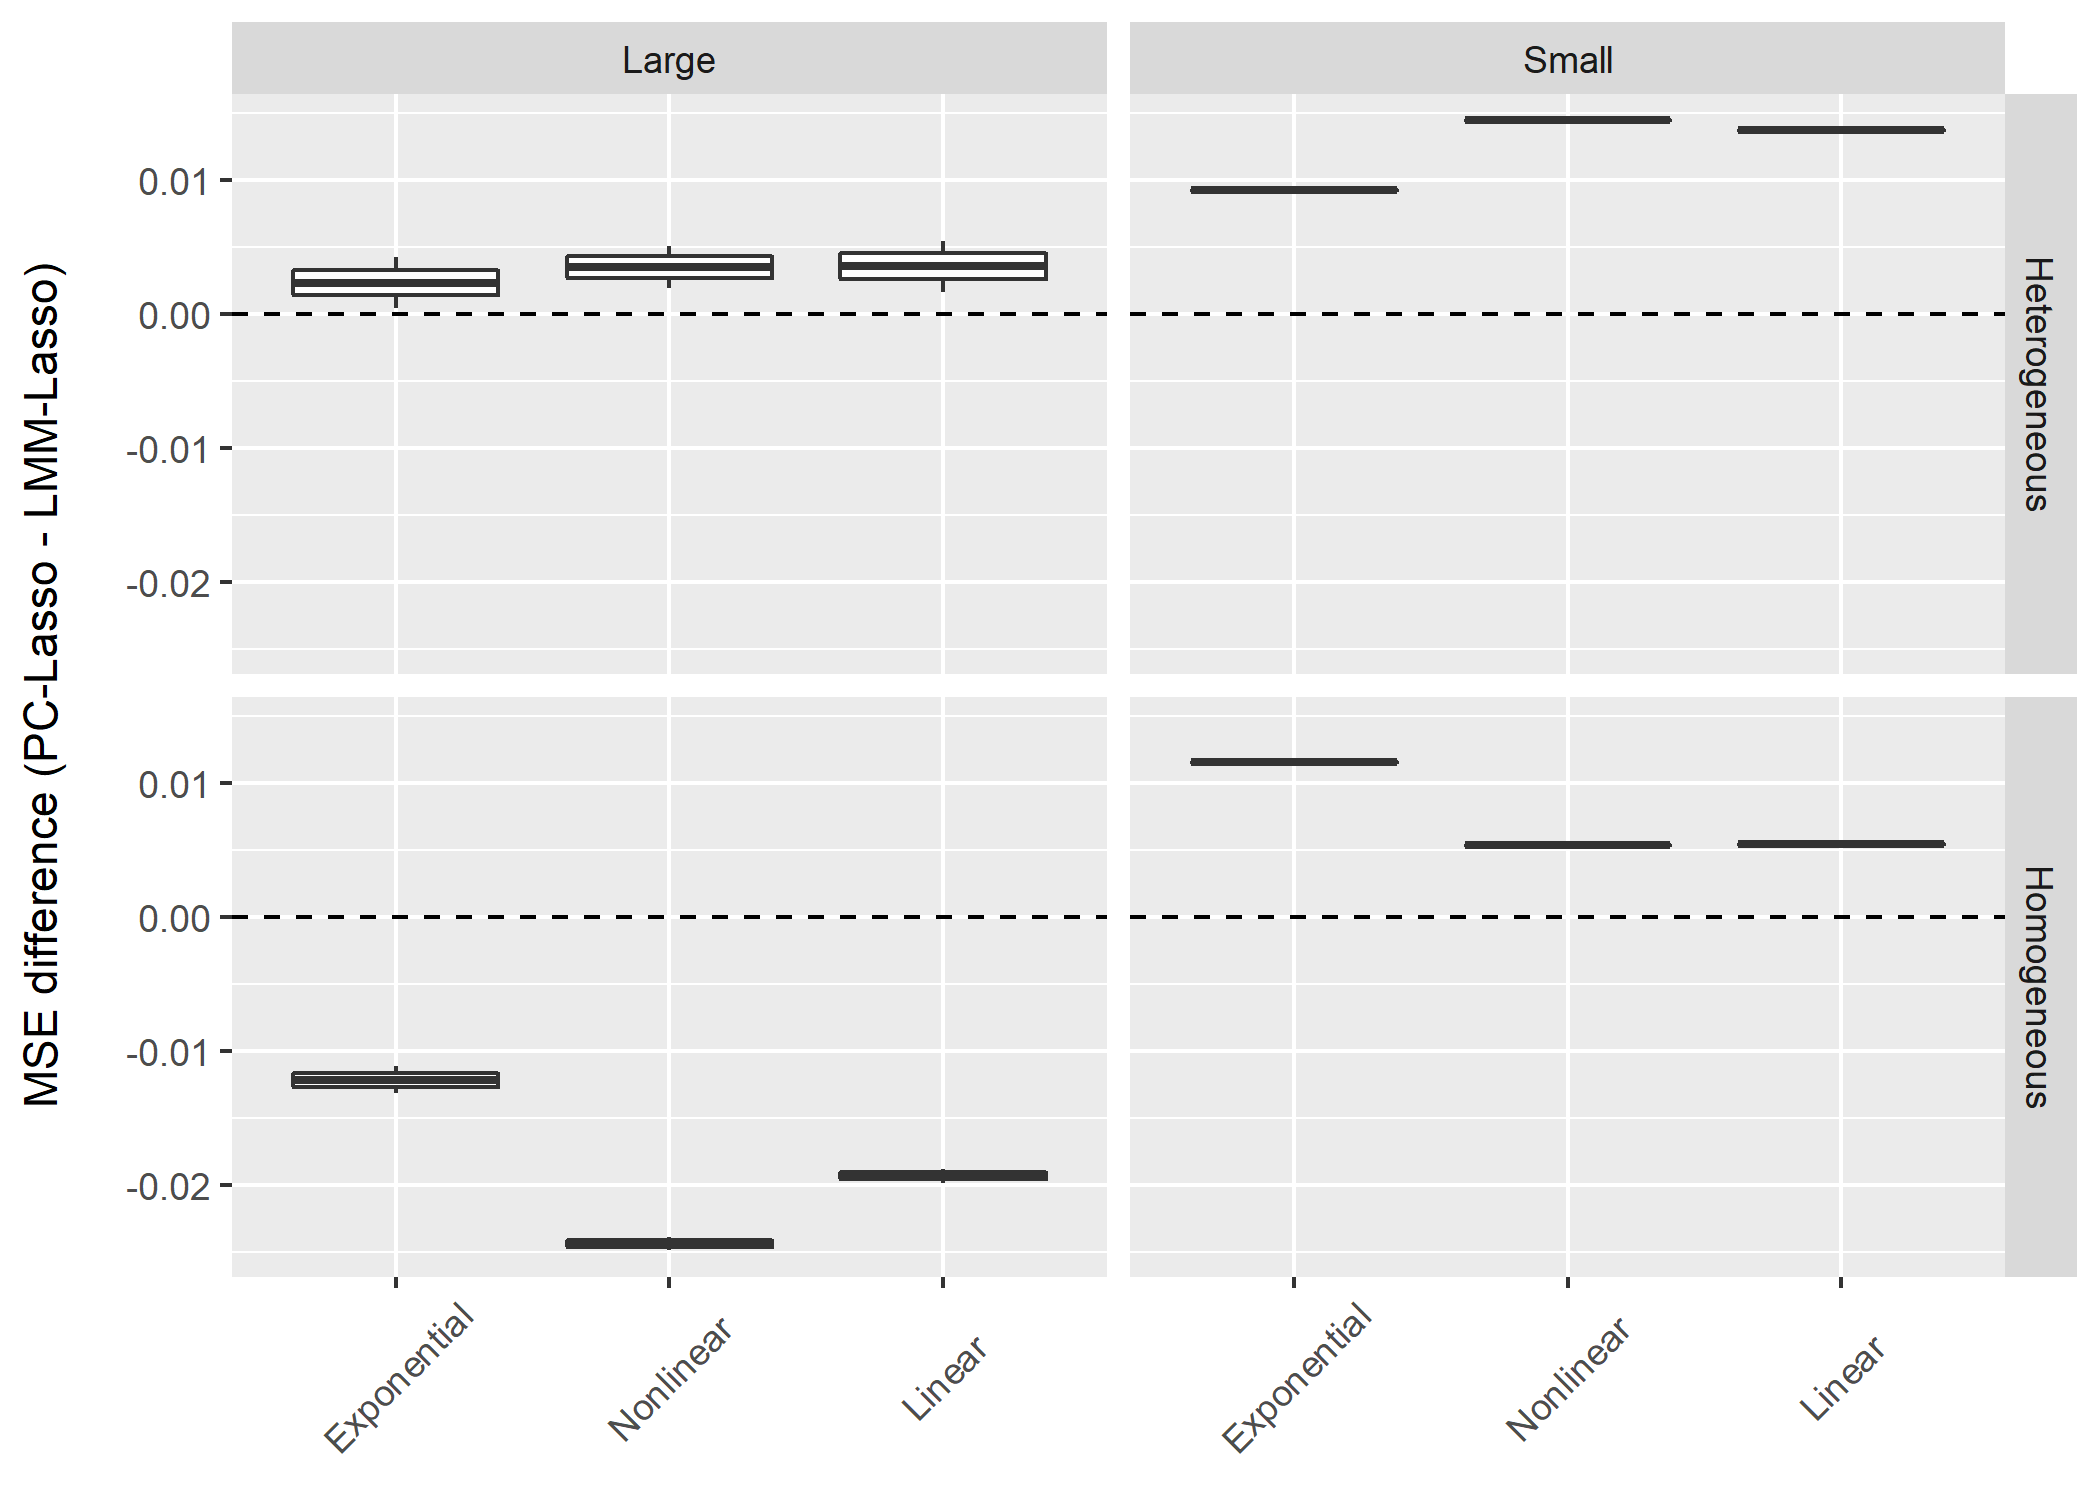
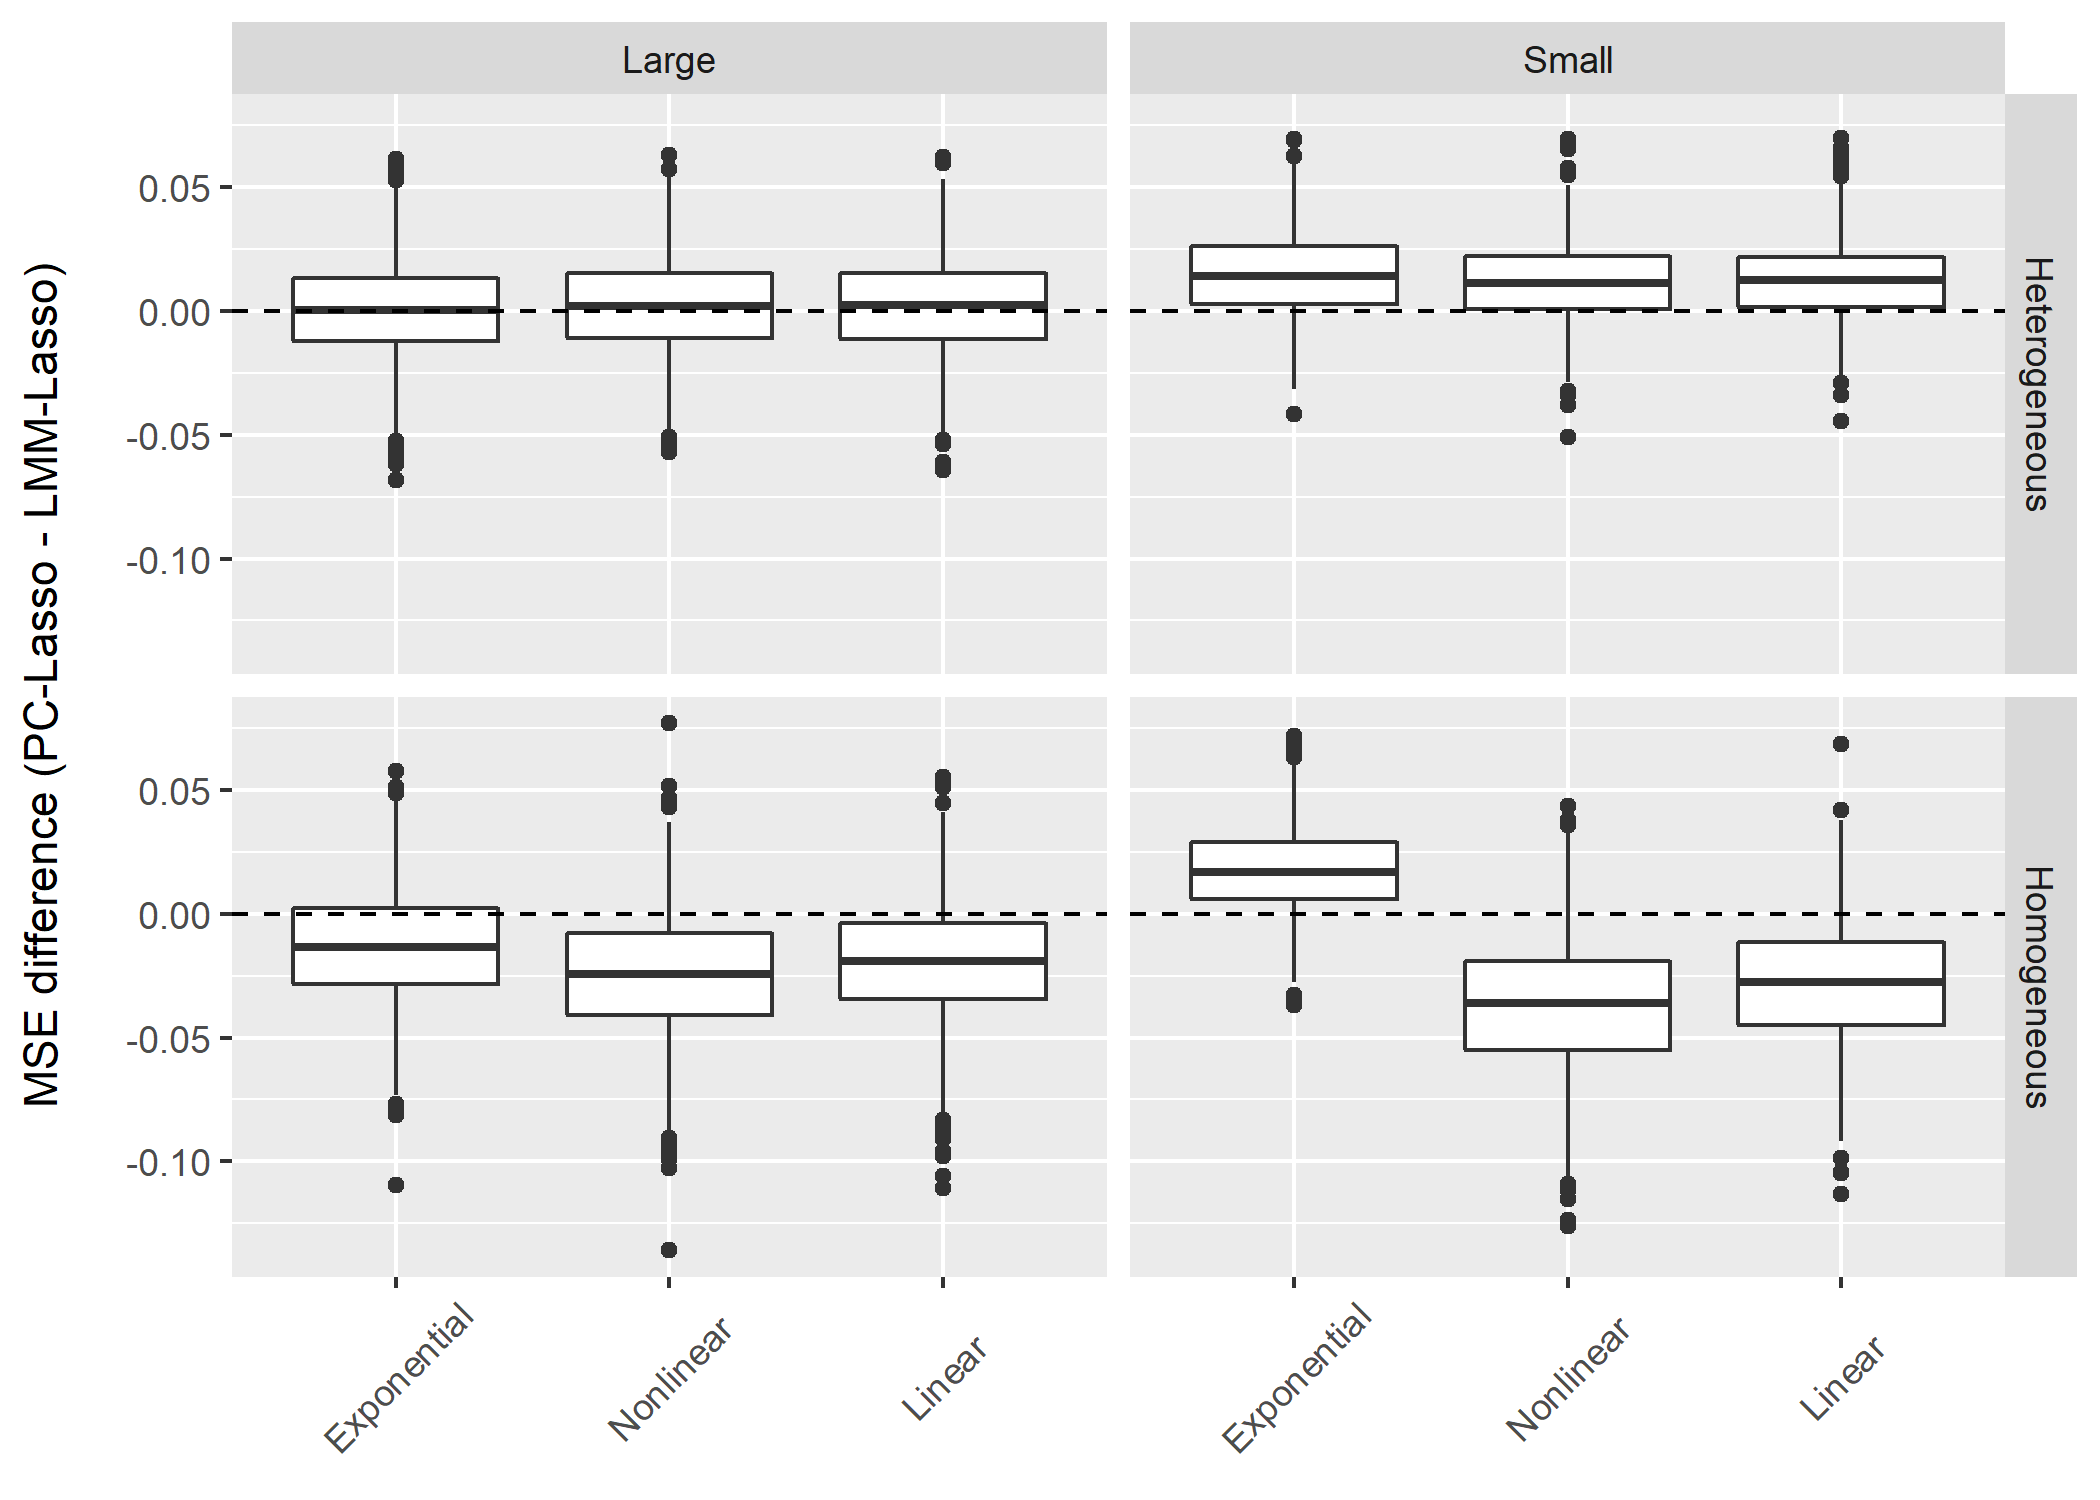
Figure updates - in progress

diff --git a/main.tex b/main.tex
@@ -182,9 +182,9 @@ We have so far used the term $\bW$ to describe the general LMM-Lasso method. How
 %------------------------------%
 \subsection{Equivalence of PC-Lasso and LMM-Lasso}
 
-\pb{I don't like calling these two methods ``equivalent''.  It immediately begs the question: if they're equivalent, why is one of the main aims of this paper to compare them?  I propose renaming this section ``Relationship between PC-Lasso and LMM-Lasso'' and then talking about both their similarities AND their differences.}
+\pb{I don't like calling these two methods ``equivalent''.  It immediately begs the question: if they're equivalent, why is one of the main aims of this paper to compare them?  I propose renaming this section ``Relationship between PC-Lasso and LMM-Lasso'' and then talking about both their similarities AND their differences.} \anna{sounds good}
 
-Despite the apparent dissimilarities between PC-Lasso and LMM-Lasso, it has been shown that the random effect formulation of model \ref{eqn:model} used by LMM-Lasso can be equivalently expressed in terms of fixed effects. \cite{zhang2015principal} derived this equivalence using a probabilistic PCA formulation, while \cite{hoffman2013correcting} used the singular value decomposition of $\bX$, and the decomposition of $\bK$ shown in equation \ref{eqn:k}. \pb{use \textbackslash eqref, not \textbackslash ref, for equations}
+Despite the apparent dissimilarities between PC-Lasso and LMM-Lasso, it has been shown that the random effect formulation of model \ref{eqn:model} used by LMM-Lasso can be equivalently expressed in terms of fixed effects. \cite{zhang2015principal} derived this equivalence using a probabilistic PCA formulation, while \cite{hoffman2013correcting} used the singular value decomposition of $\bX$, and the decomposition of $\bK$ shown in equation \eqref{eqn:k}. \pb{use \textbackslash eqref, not \textbackslash ref, for equations} \anna{ok, but why?}
 
 Thus, whether modeled as a fixed or random effect, the underlying effect of $\bZ \bgamma$ on phenotype remains the same, but its treatment as a fixed or random effect has important implications in terms of model fitting and estimation. Including principal components as fixed effects requires estimation of a greater number of parameters, which may result in a loss of power \cite{zhang2015principal}. Additionally, determining the appropriate number of principal components to adjust for is non-trivial, and has been the subject of numerous studies \cite{patterson2006population, zhao2018practical}. It has been shown that including too many or too few principal components can result in power loss or increased Type I errors, respectively \cite{zhang2015principal}. Nevertheless, a common practice is to include the ten largest principal components in the analysis \citep{zhao2018practical}, so this is the way we implement PC-Lasso throughout Section~\ref{sec:results}.
 
@@ -212,7 +212,7 @@ Although we derive these quantities under model \ref{eqn:lmm_reg}, where $\bZ = 
 where $\boldsymbol{\tau}$ quantifies bias in the estimated $\boldsymbol{\hat{\beta}'}$ and $\boldsymbol{\psi}$ is absorbed by the error term. In other words, any model specified in terms of $\bZ$ and $\bgamma$ is equivalent to a parameterization using $\bX$ and $\boldsymbol{tau}$.
 
 \pb{should this paragraph move to next section?}
-Thus, given the nature of environmental confounding in our setting of interest, and in order to assess these methodological performance in terms of estimation accuracy, we simulate according to a fixed $\bgamma$ framework and using the following data-generating model
+\anna{yes} Thus, given the nature of environmental confounding in our setting of interest, and in order to assess these methodological performance in terms of estimation accuracy, we simulate according to a fixed $\bgamma$ framework and using the following data-generating model
 \begin{equation}
     \label{eqn:sim}
     \by = a \bX \bbeta + b \bZ \bgamma + c \beps,
@@ -244,14 +244,14 @@ Firstly, these penalized regression methods were compared in the presence of var
 \anna{
 \begin{itemize}
     \item Need details about the real data once it's run
-    \item Should I mention subpopulation sizes (a few large ones) or gamma structure (half-and-half-heterogeneous) here? No - do a brief summary where noted above
+    \item Need to fix facet labels
 \end{itemize}
 }
 
 \begin{figure}[H]
     \centering
     \includegraphics[scale = 1.1]{figures/beta_mse.png}
-    \caption{MSE for different data types in the presence and absence of environmental confounding.}
+    \caption{MSE for different data types in the presence and absence of environmental confounding. \anna{$\gamma$ structure is half-and-half-decreasing-heterogeneous, subpop size is large}}
     \label{fig:mse}
 \end{figure}
 
@@ -296,18 +296,13 @@ Given the superior performance of PC-Lasso and LMM-Lasso compared to the naive l
 
 Pseudophenotypes for these simulations were again generated using a 1:1 SNR, $\eta = 0.5$, and in the presence of moderate environmental confounding, $\xi = 0.5$. Figure \ref{fig:big_vs_small} summarizes the results of these simulations with the y-axis displaying the difference in MSE (PC-Lasso - LMM-Lasso) for each simulation and for the various subpopulation structures. The dashed horizontal line at 0 indicates no difference in the performance of PC-Lasso and LMM-Lasso, while differences greater than 0 correspond to smaller MSE for LMM-Lasso, and thus superior estimation accuracy. In the presence of a small number of large subpopulations, there is some overlap in the estimation accuracy of PC-Lasso and LMM-Lasso, as evidenced by the corresponding box straddling the 0 line. However, the majority of the box falls below 0, indicating the superior performance of PC-Lasso in many of the simulations. In the presence of many small subpopulations, however, LMM-Lasso is clearly superior to PC-Lasso in estimation accuracy. \cite{hoffman2013correcting} showed that principal component adjustment methods represent a low dimensional approximation to linear mixed models. As such, it is reasonable that PC-Lasso, which corrects for population structure using a low dimensional set of surrogate variables, would perform well in the small-number-of-large-subpopulations setting, but fall short in the presence of many small subpopulations. 
 
-\anna{
-\begin{itemize}
-    \item I ran this but think it just makes things more confusing - go back to only independent subpopulations data - for both (?) 
-\end{itemize}
-}
-
+\anna{admixture simulated data sets do worse in the large subpops setting because their similarity matrix does not indicate as clearly who was exposed to one of e.g. 4 environmental exposures. the small subpopulations scenario more closely mimics gradations of environmental effects - what is usually simulated with a random draw from the MVN distn... we're simulating environmental heterogeneity in a way that allows us to examine the bias produced and these methods still do as well or better than pca}
 
 \begin{figure}[H]
     \centering
     % \includegraphics[scale = 0.9]{figures/mse_diff_subpops}
-     \includegraphics[scale = 0.9]{figures/fig2a.png}
-    \caption{Relative performance of LMM-Lasso, PC-Lasso in terms of estimation accuracy.}
+     \includegraphics[scale = 0.9]{figures/mse_diff_subpops.png}
+    \caption{Relative performance of LMM-Lasso, PC-Lasso in terms of estimation accuracy:  \anna{$\bgamma$ structure is nonlinear (aka half and half) and heterogeneous, $\eta= \xi = 0.5$}}
     \label{fig:big_vs_small}
 \end{figure}
 
@@ -331,7 +326,7 @@ We thus evaluate PC-Lasso and LMM-Lasso in the presence of large and small subpo
     \centering
     % \includegraphics[scale = 0.9]{figures/fig2b.png}
     \includegraphics[scale = 0.9]{figures/mse_diff_hetero.png}
-    \caption{Relative performance of LMM-Lasso, PC-Lasso for different subpopulation and $\bgamma$ structures}
+    \caption{Relative performance of LMM-Lasso, PC-Lasso for different subpopulation and $\bgamma$ structures: \anna{structureX is 1d linear admixture, $\eta= \xi = 0.5$}}
     \label{fig:big_small_gamma}
 \end{figure}
 
@@ -343,25 +338,24 @@ In section 3 briefly mentioned the existence of to LMM-Lasso variants: LMM-Lasso
 
 LMM-Lasso-Rakitsch estimates the variance components once, under the assumption of a null model. LMM-Lasso-ggmix seeks to improve upon this by re-estimating the variance components and $\bbeta$ iteratively. Although this seems a reasonable approach, we have been unable to find a scenario where LMM-Lasso-ggmix outperforms the LMM-Lasso-Rakitsch in estimation accuracy of $\bbeta$ or $\eta$. 
 
-\anna{eta part needs to be converted to mse}
+\anna{Fix factor label greek letters - R update broke some things}
 \begin{figure}[H]
     \centering
     \includegraphics[scale = 1]{figures/eta_beta_hat.png}
+     \caption{Caption goes here \anna{$\xi = 0.5$, structureX = 1d linear, structureGamma is half and half heterogeneous}}
+    \label{fig:eta_beta_mse}
 \end{figure}
 
-\newpage
-\anna{The error bars are indicating differences across different values of xi and simulated data-types (indepent and 1d linear admixture - this may be confusing/something to change or describe explicitly.
-}
 
 \begin{figure}[H]
     \centering
     \includegraphics[scale = 0.8]{figures/time_ratio.png}
-    \caption{Caption goes here}
+    \caption{Caption goes here \anna{$\eta = \xi = 0.5$, structureX = 1d linear, structureGamma is half and half heterogeneous}}
     \label{fig:time}
 \end{figure}
 
 
-In addition, we have found that LMM-Lasso-ggmix performs poorly in a low-dimensional setting due to the ill-conditioning of the RRM. Given its intended use for the analysis of high-dimensional data, this fact could be of little consequence to practitioners. However, although its estimation accuracy in high dimensions is on par with that of LMM-Lasso-Rakitsch, as shown in \anna{figure xxx}, this is also a setting in which the computational time required may be prohibitive for practical applications. Figure \ref{fig:time} shows the ratio of computing time required for LMM-Lasso-ggmix compared to that of LMM-Lasso-Rakitsch, for various sample sizes. The horizontal dashed line at 1 indicates both methods require the same computing time. Despite its comparable performance in accurately estimating $\hat{\bbeta}$, LMM-Lasso-ggmix takes approximately 71 to 9 times as long as LMM-Lasso-Rakitsch. Thus, LMM-Lasso-Rakitsch seems to be a more attractive and scalable method than LMM-Lasso-ggmix.
+In addition, we have found that LMM-Lasso-ggmix performs poorly in a low-dimensional setting due to the ill-conditioning of the RRM. Given its intended use for the analysis of high-dimensional data, this fact could be of little consequence to practitioners. However, although its estimation accuracy in high dimensions is on par with that of LMM-Lasso-Rakitsch, as shown in figure \ref{fig:eta_beta_mse}, this is also a setting in which the computational time required may be prohibitive for practical applications. Figure \ref{fig:time} shows the ratio of computing time required for LMM-Lasso-ggmix compared to that of LMM-Lasso-Rakitsch, for various sample sizes. The horizontal dashed line at 1 indicates both methods require the same computing time. Despite its comparable performance in accurately estimating $\hat{\bbeta}$, LMM-Lasso-ggmix takes approximately 71 to 9 times as long as LMM-Lasso-Rakitsch. Thus, LMM-Lasso-Rakitsch seems to be a more attractive and scalable method than LMM-Lasso-ggmix.
 
 
 %%%%%%%%%%%%%%%%%%%%%%%%%%%%%%%%
